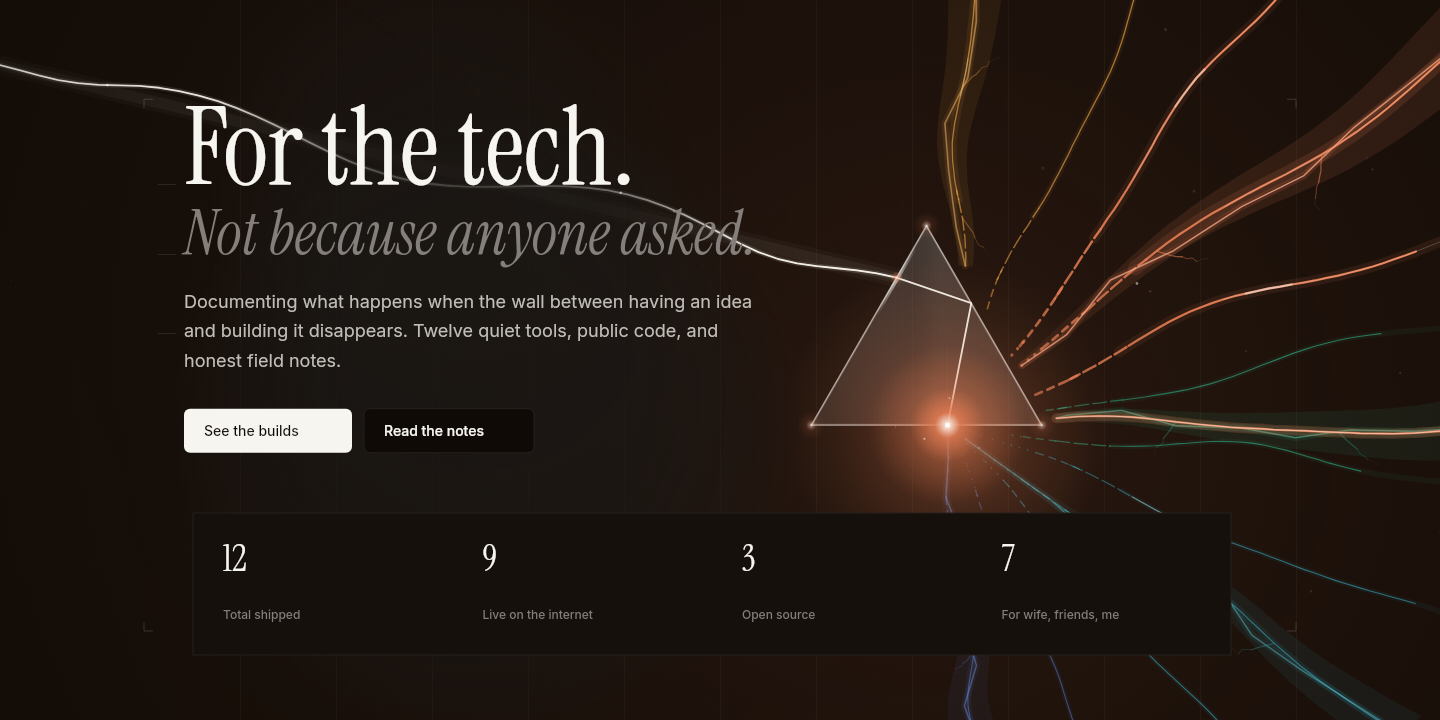
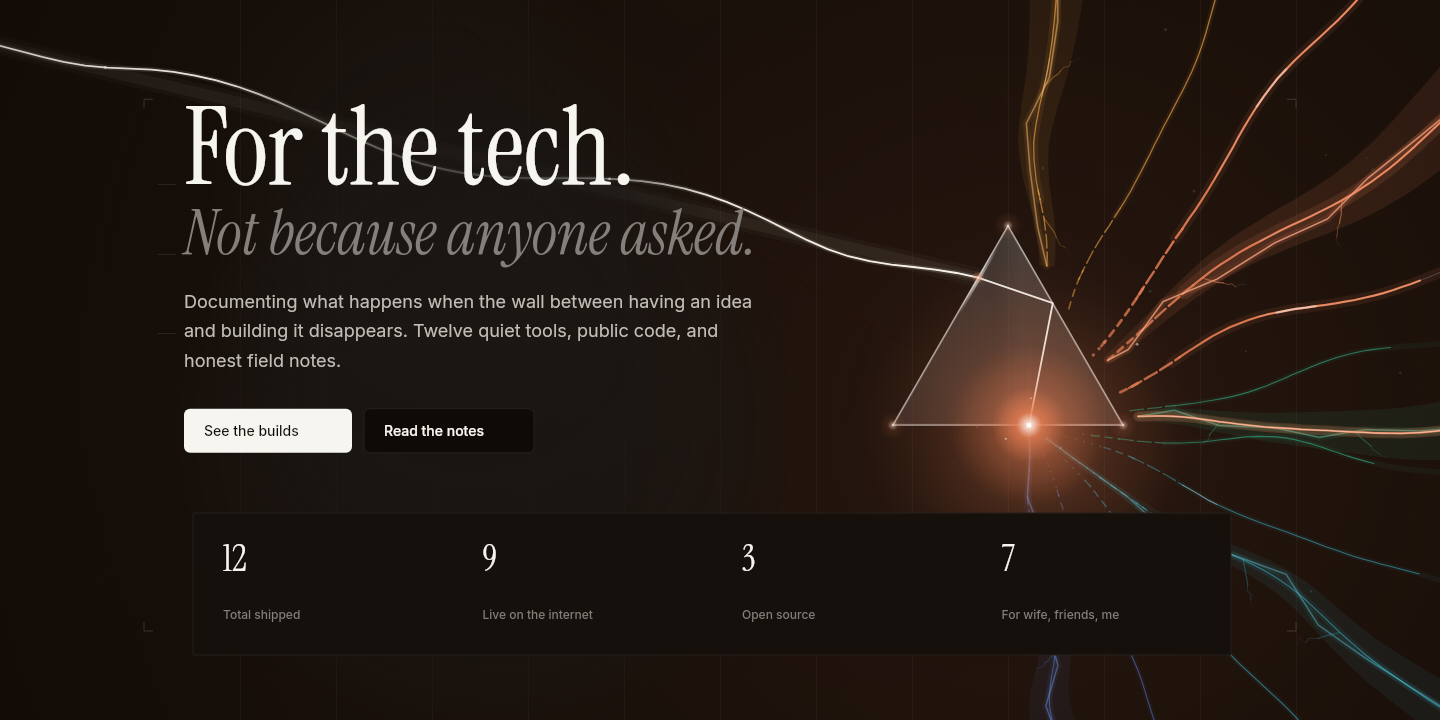
Hero: put the glass centre-right of the content column
The prism was anchored to the viewport (`max(62.5% of width, ...)`), so it sat
visibly left of centre-right at 1440 and crowded the frame edge when the copy
bulked up. It is now anchored to the content column, which is what the copy is
measured against:

  centreX = clamp(band + halfW + 24, column.left + 0.75*column, frame - halfW - 2%)

- The size is part of the same budget. Below `lg` the hero copy is still one
  full-width column, so the glass has no column of its own: its size is capped
  by `frame - 24 - copyRight - margin`. Without that cap the right vertex
  clipped the frame at ~840px wide. The half-width is exactly size/2, so it is
  one subtraction.
- The beam source may now sit exactly on the frame boundary (was 18px in, which
  made the source read as mid-air); on very wide windows the run reaches the top
  edge before the left one.
- Portrait keeps its own corner composition, unchanged.

QA: new invariant pins the glass whole in frame, exactly size/2 wide, and
centre-right relative to the column; the source-on-the-frame-edge check now
allows the top edge; and the "one ray through the body" check samples the legs
the trace returned instead of the entry-to-exit chord (which diverges whenever
the ray reflects). 112 invariants hold; a 640-2560px width sweep keeps the
geometry valid at every step.

diff --git a/src/components/sections/hero-ray.ts b/src/components/sections/hero-ray.ts
@@ -800,9 +800,20 @@ export function createHeroRay(options: HeroRayOptions = {}) {
 
     // Portrait gets a slightly smaller prism on purpose: it has to sit clear of the display
     // type *and* stay inside a 390 px frame, and those two constraints only meet here.
-    const prismSize = mobile
+    const preferredSize = mobile
       ? clamp(Math.min(heroW, heroH) * 0.24, 76, 108)
       : clamp(Math.min(heroW, heroH) * 0.32, 150, 262);
+    // Below `lg` the hero's copy is still one full-width column, so the glass has no column of
+    // its own to sit in — it has to fit the room left beside the words. Sizing it from that
+    // room keeps it inside the frame at every width instead of clipping the right vertex on
+    // tablets. The half-width of the triangle is exactly `size / 2` (r·cos30° with r = size/√3),
+    // which makes the budget a single subtraction.
+    const prismSize = mobile
+      ? preferredSize
+      : Math.min(
+          preferredSize,
+          Math.max(140, heroW - 24 - layout.copyRight - Math.max(16, heroW * 0.022)),
+        );
 
     // Equilateral prism, apex up. Circumradius r = size / √3, half-width r·cos30°.
     const r = prismSize / Math.sqrt(3);
@@ -875,7 +886,17 @@ export function createHeroRay(options: HeroRayOptions = {}) {
           rect.bottom > bandTop && rect.top < bandBottom ? Math.max(acc, rect.right) : acc,
         layout.container.left,
       );
-      const centreX = Math.min(heroW - halfW - 14, Math.max(heroW * 0.625, bandRight + halfW + 22));
+      /**
+       * Centre-right, measured against the content column rather than the viewport: the glass
+       * is the right-hand anchor of a left-aligned composition, so its position has to read
+       * the same on a 1024 laptop and a 1920 monitor. Three bounds, in order of authority:
+       * the copy it shares a band with, the column's centre-right target, and the frame edge.
+       */
+      const target =
+        layout.container.left + (layout.container.right - layout.container.left) * 0.75;
+      const clearance = bandRight + halfW + 24;
+      const ceiling = heroW - halfW - Math.max(14, heroW * 0.02);
+      const centreX = Math.min(ceiling, Math.max(clearance, target));
       centre = { x: centreX, y: centreY };
     }
 
@@ -894,12 +915,14 @@ export function createHeroRay(options: HeroRayOptions = {}) {
      * the top edge on a short, wide viewport) — the *length* gives way, never the angle: the
      * incidence is what the optics read.
      */
-    const edge = mobile ? 2 : 0;
+    const edge = 0;
     const runToEdge = (hit.x - edge) / Math.max(0.2, Math.cos(beamAngle));
     const run = clamp(runToEdge, 260, 1400);
     let source: Vec = { x: hit.x - run * Math.cos(beamAngle), y: hit.y - run * tanA };
-    // A short hero: keep the length it can hold and give up the run, not the direction.
-    const margin = mobile ? 2 : 18;
+    // A short hero: keep the length it can hold and give up the run, not the direction. The
+    // source may sit exactly on the frame edge — the ripple's envelope is zero there, so the
+    // beam fades in from the edge rather than starting in mid-air.
+    const margin = 0;
     if (source.y < margin) source = { x: hit.x - (hit.y - margin) / tanA, y: margin };
     else if (source.y > heroH - margin)
       source = { x: hit.x - (hit.y - (heroH - margin)) / tanA, y: heroH - margin };

diff --git a/design/hero-phase8/README.md b/design/hero-phase8/README.md
@@ -23,16 +23,37 @@ Because the prism's position is solved from the landing, the beam and the glass 
 apart, and because the origin is the *traced* exit, the fan cannot drift from the glass
 either. Moving one number moves the whole picture coherently.
 
-| viewport | beam source | landing on the left facet | dispersion origin |
-| --- | --- | --- | --- |
-| 1440 | left frame edge, (0, 65) | (897, 278) | base facet, (948, 425) |
-| 1024 | left frame edge, (0, 109) | (678, 269) | base facet, (729, 417) |
-| 390 | lower left, (2, 135) | (311, 55) | right facet, (365, 57) |
+| viewport | prism centre | beam source | landing on the left facet | dispersion origin |
+| --- | --- | --- | --- | --- |
+| 1440 | (1008, 300) · 70 % of the column | left frame edge, (0, 38) | (975, 265) | base facet |
+| 1024 | (753, 302) · 75 % | left frame edge, (0, 95) | (720, 267) | base facet |
+| 390 | (333, 57) · corner | lower left, (0, 135) | (311, 55) | right facet |
 
-The prism sits at `max(62.5 % of width, copy right + half-width + 22)` on wide screens — the
-copy-side constraint is now derived from **only the text rects that share the glass's vertical
-band**, not from the widest text on the page. The CTA row is 80 px below the glass, and it used
-to shove the prism to the right for no reason.
+### The glass is centre-right of the *column*, not of the viewport
+
+The prism is the right-hand anchor of a left-aligned composition, so its position is measured
+against the content column (`.mx-auto max-w-6xl`), not against the window. That is what makes it
+read the same on a 1024 laptop and a 1920 monitor instead of drifting further right as the
+window grows:
+
+```
+centreX = clamp(band + halfW + 24, column.left + 0.75·column, frame − halfW − 2 %)
+```
+
+- **band** is the copy that actually shares the glass's vertical band — the display type — not
+  the widest text on the page. The lede and CTA row sit below it and must not shove the glass.
+- **The size is part of that budget.** Below `lg` the hero's copy is still one full-width column,
+  so the glass has no column of its own to sit in. Its size is capped by the room left beside
+  the words, `min(preferred, frame − 24 − copyRight − margin)`; without that cap the right
+  vertex clipped the frame around 840 px wide. The triangle's half-width is exactly `size / 2`,
+  which makes the budget a single subtraction.
+- **The source is allowed to sit exactly on the frame boundary.** On a very wide window the run
+  reaches the top edge before the left edge; the ripple's envelope is zero there, so the light
+  fades in from the edge rather than starting in mid-air.
+
+A width sweep from 640 to 2560 px keeps all of it true: no clipped vertex, the column-relative
+position between 55 % and 88 %, an incident span above 240 px, and a source on the frame edge
+at every width.
 
 ### Why the beam descends from upper-left
 
@@ -171,16 +192,18 @@ live DOM and screenshots the real page.
 cd scripts/hero-qa && HERO_PHASE=qa npm run check
 ```
 
-27 invariants per captured layout (108 total). New or rewritten in this pass:
+28 invariants per captured layout (112 total). New or rewritten in this pass:
 
 ```
 ✓ the resting ray is a real refraction, not a composed chord   (Snell on the resting legs)
 ✓ the source is outside the entry plane, at the frame edge
 ✓ the beam crosses the headline, and the type stays above it   (incl. layer order + DOM z)
 ✓ everything painted over the type is clear of it              (geometry, not pixels)
+✓ the glass is whole and centre-right, sized to the room it has
 ✓ the illustrated field is wavy, bounded, and lands exactly on the hinge
 ✓ reduced motion paints one stable, complete still             (byte-identical paints)
 ✓ entry and exit ride the facets the trace names               (was: hard-coded corners)
+✓ the incident beam is drawn along the legs the trace returned  (was: sampled on a chord)
 ```
 
 ```
